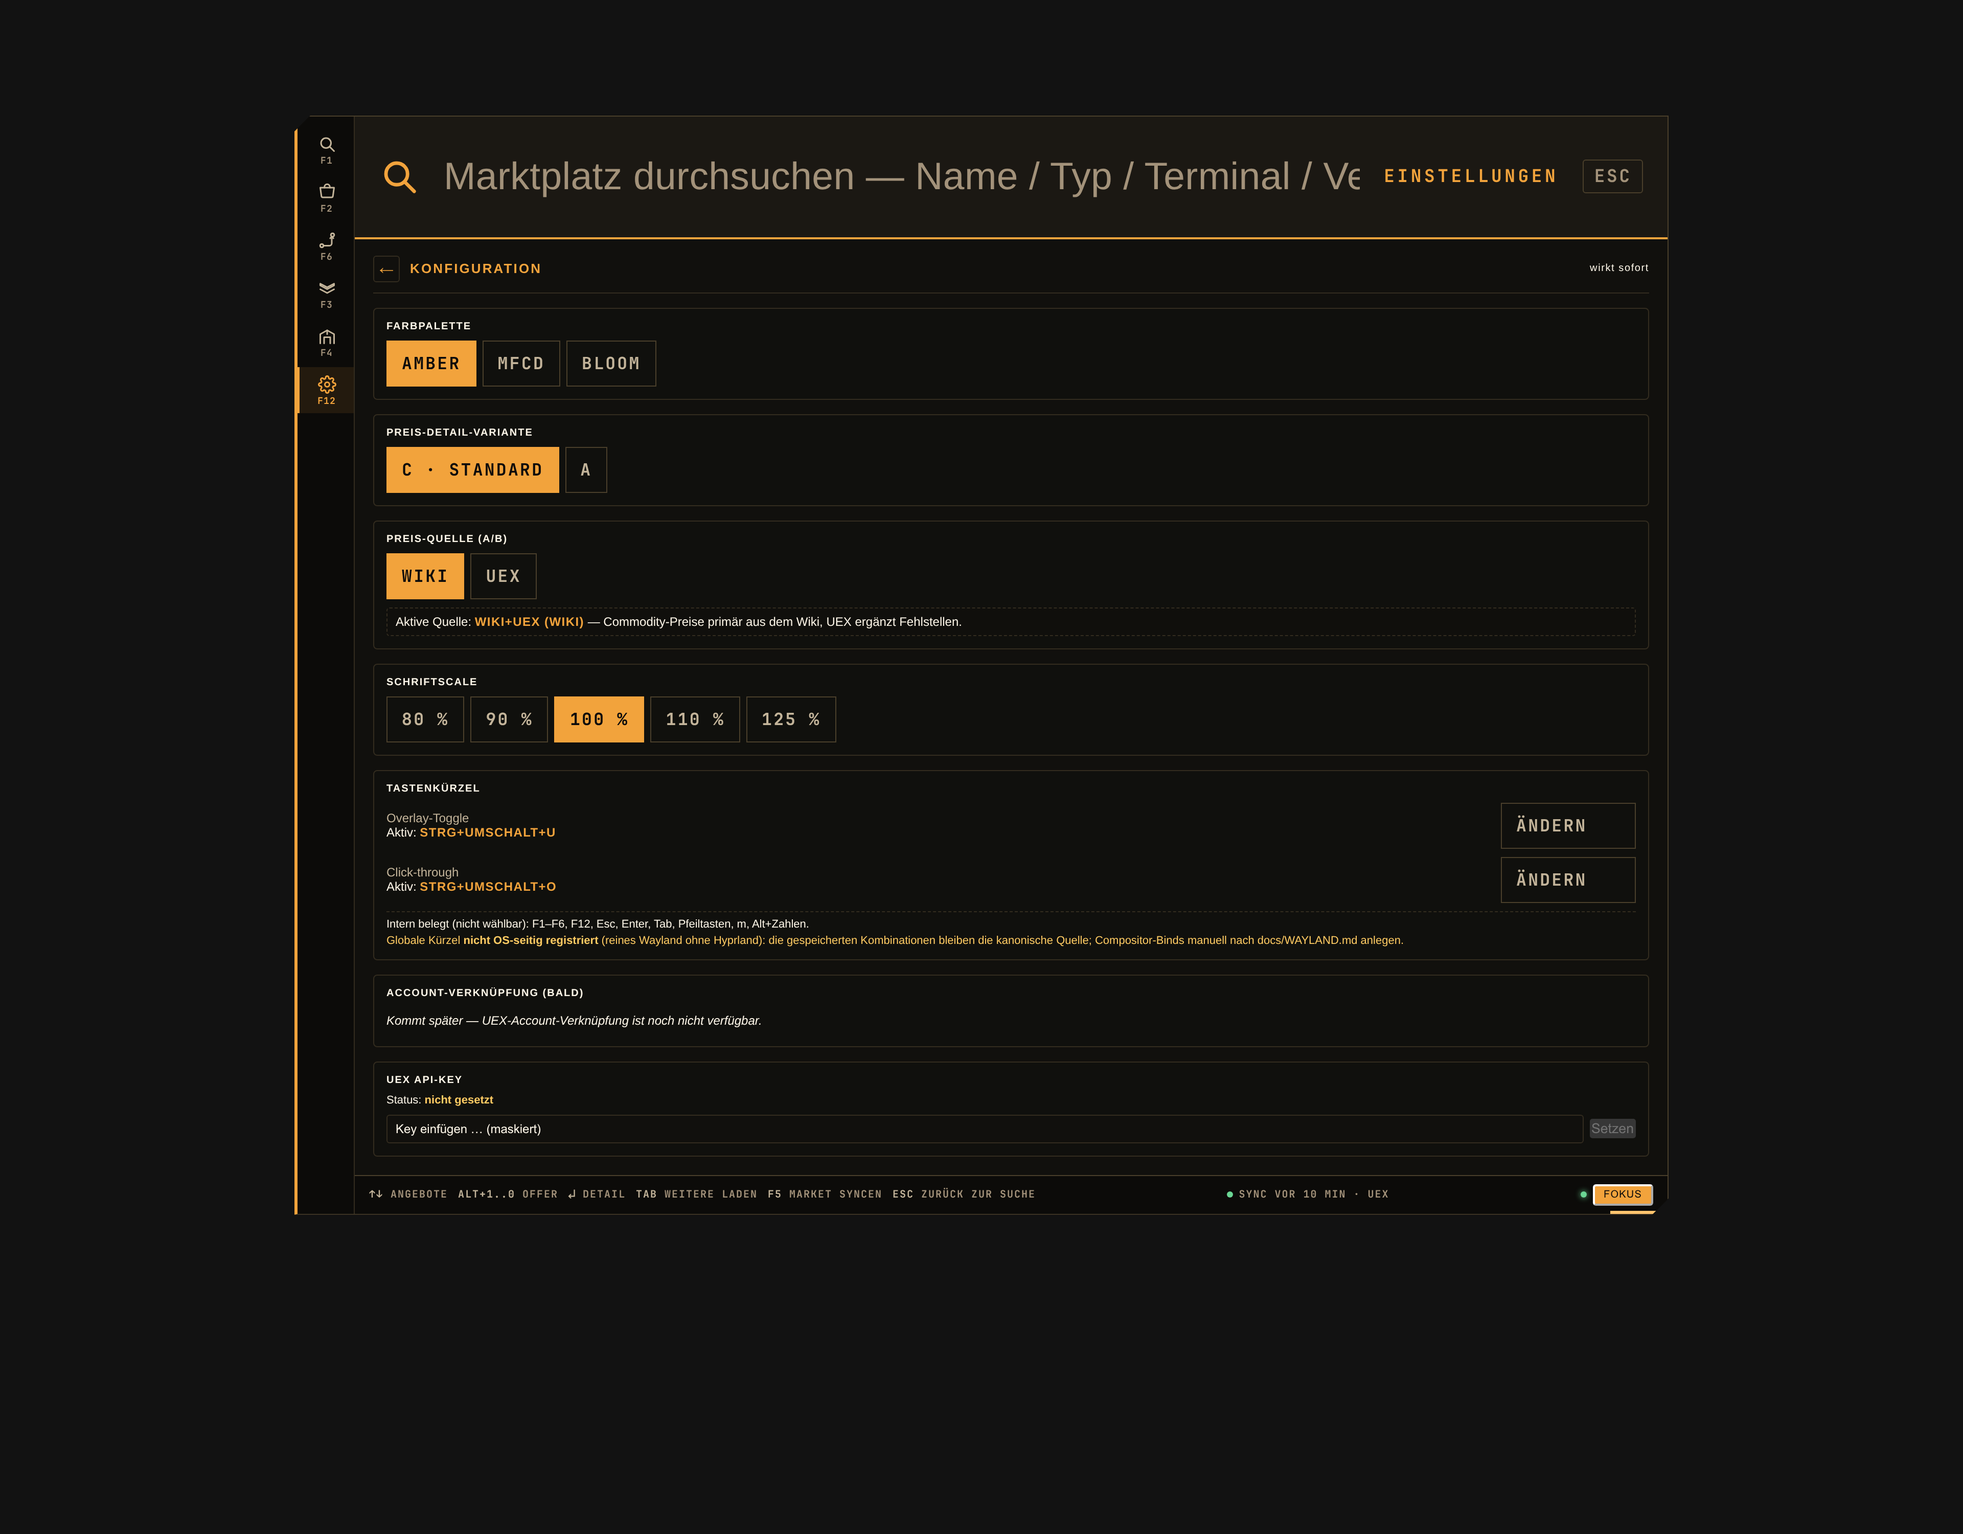
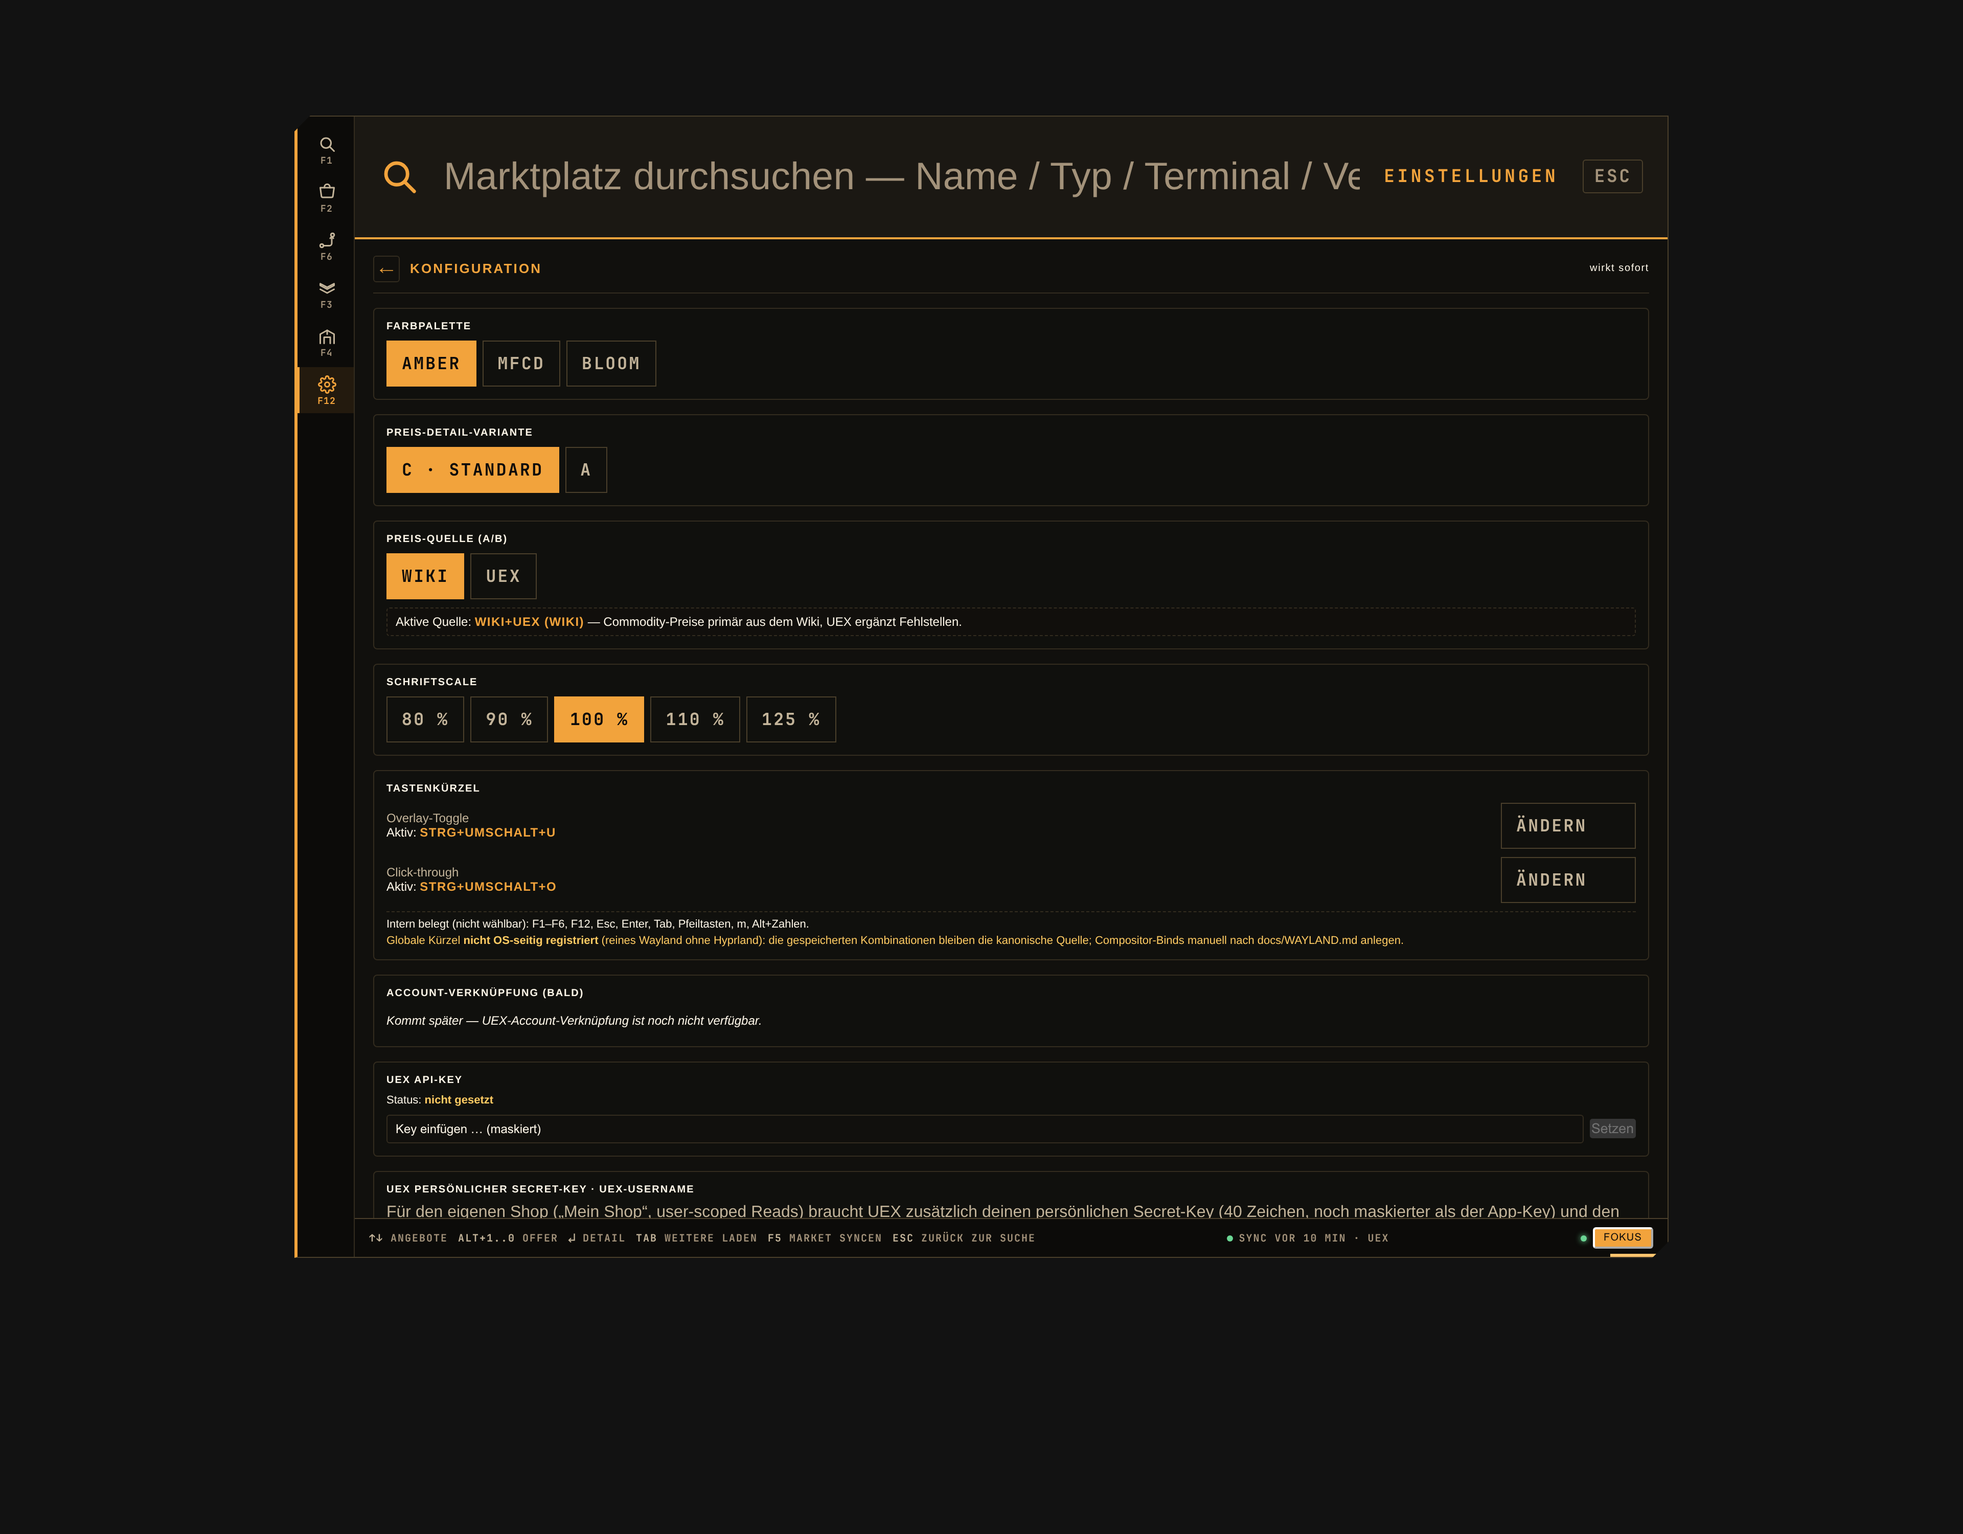
M2a-Fix t_2f197d1c (Frontend): Secret-Key-/Username-Felder in F12 + Mein-Shop-Gate
- F12-Config: neue Sektion 'UEX persoenlicher Secret-Key · UEX-Username'
  (maskiertes Secret-Key-Feld mit Status gesetzt/nicht gesetzt + Entfernen,
  Username-Textfeld exakt wie auf UEX registriert) — gleiche Muster wie der
  bestehende App-Key; Settings-Username ist kanonische Quelle fuer den
  marketplace_listings?username=-Pull (Shop-Input schreibt best-effort zurueck)
- Mein-Shop-Tab: ohne Secret-Key KEIN Request mehr (UEX wuerde sonst nur
  400/403 liefern) — stattdessen deutsche Meldung 'Secret-Key fehlt oder
  ist falsch — siehe Einstellungen' + Settings-Button; loadShop bricht frueh ab
- Smoke: Stub spiegelt uex_secret_key_set/uex_username, neues S5-Szenario
  (Gate ohne Key: Meldung + Settings-Link + 0 Requests), Screenshots
  shop-s5-secret-key-missing + shop-s5-settings-secret-key-field

Probe 35/35 PASS. svelte-check 0 errors/54 warnings, pnpm build ok.

Changed region(s): [[0.1875, 0.744, 0.8438, 0.837]]

diff --git a/src/routes/+page.svelte b/src/routes/+page.svelte
@@ -208,6 +208,10 @@ const MARKET_STALE_SECS = 300; // P3: Market-Daten älter als 5 min → Hintergr
 		palette: string;
 		detail_variant: string;
 		uex_api_key_set: boolean;
+		// M2a-Fix (t_2f197d1c): bool-only (roher Key geht nie ans Frontend)
+		// + UEX-Benutzername für den marketplace_listings?username=-Pull.
+		uex_secret_key_set: boolean;
+		uex_username: string;
 		commodity_source: string;
 		// K2 (t_5fe8eb4c, P12): font/icon scale in % (Chips 80–125, backend 50–200).
 		scale: number;
@@ -226,6 +230,11 @@ const MARKET_STALE_SECS = 300; // P3: Market-Daten älter als 5 min → Hintergr
 	let cfg = $state<SettingsSnapshot | null>(null);
 	let apiKeyInput = $state('');
 	let apiKeyNote = $state('');
+	// M2a-Fix (t_2f197d1c): zweites Credential + Username (F12-View).
+	let secretKeyInput = $state('');
+	let secretKeyNote = $state('');
+	let usernameInput = $state('');
+	let usernameNote = $state('');
 	// K6 (t_9b385831, P2): kurze Confirm-Zeile im Config-View nach Aktionen
 	// (Preisquelle umstellen) — analog K3 Notif-Timeout: verschwindet nach 3 s
 	// von selbst, damit die Wirkung sichtbar ist, ohne das View zuzumüllen.
@@ -755,6 +764,9 @@ const MARKET_STALE_SECS = 300; // P3: Market-Daten älter als 5 min → Hintergr
 		try {
 			cfg = await invoke<SettingsSnapshot>('settings_get');
 			applySettings(cfg);
+			// M2a-Fix (t_2f197d1c): Settings-Username ist die kanonische Quelle
+			// für den „Mein Shop"-Pull — localStorage nur als SSR-Fallback.
+			if (cfg?.uex_username && !shopUser.trim()) shopUser = cfg.uex_username.trim();
 		} catch {
 			// Ohne Tauri (SSR/vite-dev) → Palette bleibt am app.html-Default.
 		}
@@ -774,6 +786,10 @@ const MARKET_STALE_SECS = 300; // P3: Market-Daten älter als 5 min → Hintergr
 		dToast = '';
 		apiKeyInput = '';
 		apiKeyNote = '';
+		secretKeyInput = '';
+		secretKeyNote = '';
+		usernameInput = '';
+		usernameNote = '';
 		cancelShortcutCapture();
 		inConfig = true;
 		if (searchEl) searchEl.blur();
@@ -783,6 +799,10 @@ const MARKET_STALE_SECS = 300; // P3: Market-Daten älter als 5 min → Hintergr
 		inConfig = false;
 		apiKeyInput = '';
 		apiKeyNote = '';
+		secretKeyInput = '';
+		secretKeyNote = '';
+		usernameInput = '';
+		usernameNote = '';
 		// Capture darf ein Schließen nicht überleben (kein Geister-Fenster-Modus).
 		cancelShortcutCapture();
 		cfgToast = '';
@@ -878,6 +898,50 @@ const MARKET_STALE_SECS = 300; // P3: Market-Daten älter als 5 min → Hintergr
 			apiKeyNote = 'API-Key entfernt.';
 		} catch (e) {
 			apiKeyNote = String(e);
+		}
+	}
+
+	// M2a-Fix (t_2f197d1c): zweites Credential + Username — dieselben Muster
+	// wie der App-Key (invoke, Suppression leerer Eingaben, Note beim Ergebnis).
+	async function saveSecretKey() {
+		const key = secretKeyInput.trim();
+		if (!key) return;
+		try {
+			cfg = await invoke<SettingsSnapshot>('settings_set_uex_secret_key', { key });
+			secretKeyInput = '';
+			secretKeyNote = 'Secret-Key gespeichert — wird NIE im Klartext angezeigt.';
+			if (!shopUser.trim() && cfg?.uex_username) shopUser = cfg.uex_username.trim();
+		} catch (e) {
+			secretKeyNote = String(e);
+		}
+	}
+
+	async function removeSecretKey() {
+		try {
+			cfg = await invoke<SettingsSnapshot>('settings_set_uex_secret_key', { key: null });
+			secretKeyInput = '';
+			secretKeyNote = 'Secret-Key entfernt.';
+		} catch (e) {
+			secretKeyNote = String(e);
+		}
+	}
+
+	async function saveUsername() {
+		const name = usernameInput.trim();
+		if (!name) return;
+		try {
+			cfg = await invoke<SettingsSnapshot>('settings_set_uex_username', { name });
+			usernameInput = '';
+			usernameNote = 'UEX-Username gespeichert — wird für den „Mein Shop“-Pull verwendet.';
+			// Kanonische Quelle (Settings) → Shop-Input synchron halten.
+			shopUser = name;
+			try {
+				localStorage.setItem(SHOP_USER_KEY, name);
+			} catch {
+				/* localStorage incomplete — In-Memory bleibt aktiv. */
+			}
+		} catch (e) {
+			usernameNote = String(e);
 		}
 	}
 
@@ -1096,8 +1160,26 @@ const MARKET_STALE_SECS = 300; // P3: Market-Daten älter als 5 min → Hintergr
 		} catch {
 			/* localStorage incomplete — In-Memory bleibt aktiv. */
 		}
+		// M2a-Fix (t_2f197d1c): der Username lebt kanonisch in den Settings
+		// (F12) — der Shop-Input schreibt best-effort zurück, damit beide
+		// Sichten synchron bleiben. Kein await: UI darf hier nicht blockieren.
+		if (typeof invoke === 'function') {
+			invoke('settings_set_uex_username', { name: v.trim() || null }).catch(() => {});
+		}
 	}
 	async function loadShop(bg = false) {
+		// M2a-Fix (t_2f197d1c): ohne persönlichen Secret-Key KEINE Requests —
+		// UEX antwortet sonst nur 400 user_not_found/403 invalid_secret_key.
+		// Der Gate zeigt stattdessen die deutsche Meldung + Settings-Link
+		// (cfgs null = SSR/Probe ohne Backend → Verhalten wie bisher).
+		if (cfg && !cfg.uex_secret_key_set) {
+			shopLoading = false;
+			shopErr = null;
+			shopNote = null;
+			myOffers = [];
+			myTrades = [];
+			return;
+		}
 		shopLoading = !bg;
 		shopErr = null;
 		shopNote = null;
@@ -2953,11 +3035,64 @@ const MARKET_STALE_SECS = 300; // P3: Market-Daten älter als 5 min → Hintergr
 								Setzen
 							</button>
 							{#if cfg?.uex_api_key_set}
-								<button type="button" class="btn-ghost" onclick={removeApiKey}>Entfernen</button>
+							<button type="button" class="btn-ghost" onclick={removeApiKey}>Entfernen</button>
 							{/if}
 						</div>
 						{#if apiKeyNote}
 							<div class="cfg-note">{apiKeyNote}</div>
+						{/if}
+					</section>
+					<section class="cfg-sect">
+						<div class="h">UEX persönlicher Secret-Key · UEX-Username</div>
+						<div class="sm" style="margin-bottom: 8px; color: var(--fgdim)">
+							Für den eigenen Shop („Mein Shop“, user-scoped Reads) braucht UEX
+							zusätzlich deinen persönlichen Secret-Key (40 Zeichen, noch maskierter
+							als der App-Key) und den Usernamen, exakt wie auf uexcorp.space registriert.
+						</div>
+						<div class="cfg-key-status">
+							Secret-Key:
+							<b class:ok={cfg?.uex_secret_key_set} class:off={!cfg?.uex_secret_key_set}>
+								{cfg?.uex_secret_key_set ? 'gesetzt' : 'nicht gesetzt'}
+							</b>
+						</div>
+						<div class="cfg-key-row">
+							<input
+								type="password"
+								autocomplete="off"
+								placeholder="Secret-Key einfügen … (maskiert)"
+								bind:value={secretKeyInput}
+								onkeydown={(e) => e.stopPropagation()}
+							/>
+							<button type="button" class="btn" onclick={saveSecretKey} disabled={!secretKeyInput.trim()}>
+								Setzen
+							</button>
+							{#if cfg?.uex_secret_key_set}
+							<button type="button" class="btn-ghost" onclick={removeSecretKey}>Entfernen</button>
+							{/if}
+						</div>
+						{#if secretKeyNote}
+							<div class="cfg-note">{secretKeyNote}</div>
+						{/if}
+						<div class="cfg-key-status" style="margin-top: 10px">
+							UEX-Username:
+							<b class:ok={cfg?.uex_username?.trim()} class:off={!cfg?.uex_username?.trim()}>
+								{cfg?.uex_username?.trim() ? cfg.uex_username.trim() : 'nicht gesetzt'}
+							</b>
+						</div>
+						<div class="cfg-key-row">
+							<input
+								type="text"
+								autocomplete="off"
+								placeholder="z. B. sebo_one"
+								bind:value={usernameInput}
+								onkeydown={(e) => e.stopPropagation()}
+							/>
+							<button type="button" class="btn" onclick={saveUsername} disabled={!usernameInput.trim()}>
+								Setzen
+							</button>
+						</div>
+						{#if usernameNote}
+							<div class="cfg-note">{usernameNote}</div>
 						{/if}
 					</section>
 				</div>
@@ -3283,6 +3418,18 @@ const MARKET_STALE_SECS = 300; // P3: Market-Daten älter als 5 min → Hintergr
 								<div class="big" style="color: var(--alert)">UEX API-Key nicht gesetzt</div>
 								<div class="sm">Eigene Offers + Trades brauchen deinen UEX-API-Key — ohne Key bleibt der Abschnitt leer.</div>
 								<span class="btn" onclick={openConfig}>In den Einstellungen hinterlegen</span>
+							</div>
+						</div>
+					{:else if !cfg?.uex_secret_key_set}
+						<!-- M2a-Fix (t_2f197d1c): ohne persönlichen Secret-Key KEIN
+						     Request (UEX antwortet sonst nur 400 user_not_found /
+						     403 invalid_secret_key) — stattdessen klare deutsche
+						     Meldung + Settings-Verweis. -->
+						<div class="pane-error" style="margin: 10px 0">
+							<div class="center">
+								<div class="big" style="color: var(--alert)">Secret-Key fehlt oder ist falsch — siehe Einstellungen</div>
+								<div class="sm">User-scoped Reads (eigene Offers, Trades) brauchen zusätzlich zum App-Key den „UEX persönlichen Secret-Key“ (40 Zeichen) — exakt wie auf uexcorp.space registriert.</div>
+								<button type="button" class="btn" onclick={openConfig}>In den Einstellungen hinterlegen</button>
 							</div>
 						</div>
 					{:else if shopLoading}

diff --git a/docs/scripts/smoke-stub.js b/docs/scripts/smoke-stub.js
@@ -55,6 +55,11 @@ window.__SHOP_TRADES_NOTE__ = window.__SHOP_TRADES_NOTE__ || null;
 const stubState = {
 	palette: 'amber', detail_variant: 'c',
 	uex_api_key_set: false, commodity_source: 'wiki',
+	// M2a-Fix (t_2f197d1c): bool-only Secret-Key + Username — der Stub
+	// spiegelt beide wie den API-Key, damit die Probe den Gate (ohne
+	// Secret-Key → Meldung statt Request) fahren kann.
+	uex_secret_key_set: false,
+	uex_username: '',
 	// K2 (t_5fe8eb4c, P12): font/icon scale in % — mirrors Settings.scale in the
 	// Rust backend so the probe can A/B the scale live without a Tauri app.
 	scale: 100
@@ -87,6 +92,12 @@ window.__TAURI_INTERNALS__ = {
 				// commodity_source) — ohne Spiegel bliebe der Key-Status im
 				// Smoke-Harness permanent aus.
 				stubState.uex_api_key_set = a.key != null && String(a.key).trim() !== '';
+			case 'settings_set_uex_secret_key':
+				if (cmd === 'settings_set_uex_secret_key')
+					stubState.uex_secret_key_set = a.key != null && String(a.key).trim() !== '';
+			case 'settings_set_uex_username':
+				if (cmd === 'settings_set_uex_username')
+					stubState.uex_username = typeof a.name === 'string' && a.name.trim() !== '' ? a.name.trim() : '';
 			case 'settings_set_commodity_source':
 				if (cmd === 'settings_set_commodity_source') stubState.commodity_source = a.name || stubState.commodity_source;
 				return stubSettings();

diff --git a/docs/scripts/shop-probe.py b/docs/scripts/shop-probe.py
@@ -12,6 +12,9 @@ Belegt mit funktionalen DOM-Assertions (nicht nur Screenshots):
   S3 — Fehlerpfad: beide Reads schlagen fehl → „Mein Shop nicht erreichbar" +
        Fehlermeldung + „AUF UEXCORP.SPACE ÖFFNEN"; danach Offline-Fallback
        (Note + Offline-Snapshot-Chip, Daten bleiben sichtbar).
+  S5 — M2a-Fix (t_2f197d1c): API-Key gesetzt, aber KEIN persönlicher
+       Secret-Key → „Secret-Key fehlt oder ist falsch — siehe Einstellungen"
+       + Settings-Button, KEIN get_my_offers/get_my_trades-Request.
 
 Datenquelle: smoke-stub.js (JS-Mirror; die Rust-Seite ist durch cargo tests
 in src-tauri/trade.rs + crates/uex-client belegt). Screenshots nach docs/screens/.
@@ -256,6 +259,8 @@ async def main():
         # =====================================================================
         await navigate(
             "window.__stubState.uex_api_key_set = true;"
+            "window.__stubState.uex_secret_key_set = true;"
+            "localStorage.setItem('architects-overlay.shop.username','sebo_one');"
             "window.__SHOP_OFFERS__ = " + SHOP_OFFERS + ";"
             "window.__SHOP_TRADES__ = " + SHOP_TRADES + ";"
         )
@@ -322,6 +327,7 @@ async def main():
         # Reads schlagen fehl → Fehlerpane statt leerem Abschnitt.
         await navigate(
             "window.__stubState.uex_api_key_set = true;"
+            "window.__stubState.uex_secret_key_set = true;"
             "window.__SHOP_OFFERS_FAIL__ = true;"
             "window.__SHOP_TRADES_FAIL__ = true;"
         )
@@ -387,6 +393,7 @@ async def main():
         # =====================================================================
         await navigate(
             "window.__stubState.uex_api_key_set = true;"
+            "window.__stubState.uex_secret_key_set = true;"
             "localStorage.setItem('architects-overlay.shop.username','sebo_one');"
             "window.__SHOP_OFFERS__=[];"
             "window.__SHOP_TRADES__=[];"
@@ -407,6 +414,50 @@ async def main():
         offers_empty = await js(has_text_expr(".row-empty", "Keine eigenen Offers"))
         check("s4-empty-offers-state", offers_empty is True)
         await shot("shop-s4-empty-history.png")
+
+        # =====================================================================
+        # S5 — M2a-Fix (t_2f197d1c): API-Key gesetzt, aber KEIN persönlicher
+        #      Secret-Key → klare deutsche Meldung + Settings-Button, KEIN
+        #      Request (get_my_offers/get_my_trades werden gar nicht gefeuert).
+        # =====================================================================
+        await navigate(
+            "window.__stubState.uex_api_key_set = true;"
+            "window.__stubState.uex_secret_key_set = false;"
+            "localStorage.setItem('architects-overlay.shop.username','sebo_one');"
+            "window.__SHOP_OFFERS__=" + SHOP_OFFERS + ";"
+            "window.__SHOP_TRADES__=" + SHOP_TRADES + ";"
+            "window.__SHOP_OFFERS_FAIL__=false;"
+            "window.__SHOP_TRADES_FAIL__=false;"
+        )
+        await js("""(function(){
+            var orig = window.__TAURI_INTERNALS__.invoke;
+            window.__calls = window.__calls || [];
+            window.__TAURI_INTERNALS__.invoke = function(cmd,args){
+                window.__calls.push(cmd + ':' + JSON.stringify(args || {}));
+                return orig(cmd,args);
+            };
+        })()""")
+        await enter_market()
+        await click_chip("Mein Shop")
+        await asyncio.sleep(1.5)
+        sk_hint = await js(has_text_expr(".pane-error .big", "Secret-Key fehlt oder ist falsch"))
+        check("s5-secret-key-hint-shown", sk_hint is True)
+        # KEIN Mein-Shop-Read getriggert (Gate greift VOR den Requests).
+        sk_calls = json.loads(str(await js("JSON.stringify(window.__calls || [])")) or "[]")
+        shop_reads = [c for c in sk_calls if "get_my_offers" in c or "get_my_trades" in c]
+        check("s5-no-shop-request-without-secret-key", len(shop_reads) == 0, str(shop_reads[:3]))
+        await shot("shop-s5-secret-key-missing.png")
+        sk_btn = await js(
+            "(function(){var b=[...document.querySelectorAll('.pane-error .btn')].find(function(x){return (x.textContent||'').includes('Einstellungen');}); if(b){b.click(); return true;} return false;})()"
+        )
+        check("s5-secret-key-settings-link-clicked", sk_btn is True)
+        await asyncio.sleep(0.6)
+        # Config-Pane nach unten scrollen, damit die neue Secret-Key-/Username-
+        # Sektion vollständig im Beleg-Screenshot steht (F12-View ist höhen-
+        # fixiert; der Scope oben zeigte nur Überschrift + Beschreibung).
+        await js("(function(){var p=document.querySelector('.pane-config'); if(p) p.scrollTop = p.scrollHeight;})()")
+        await asyncio.sleep(0.5)
+        await shot("shop-s5-settings-secret-key-field.png")
 
         await call("Page.close")
 
